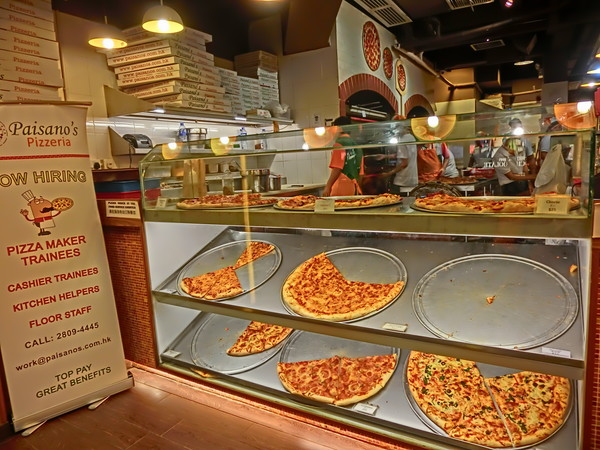
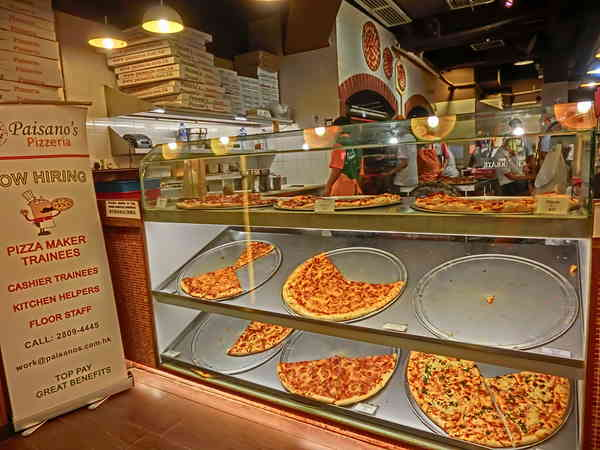
Add files via upload

diff --git a/project-mobile.html b/project-mobile.html
@@ -11,6 +11,7 @@
     <!-- <link href="//fonts.googleapis.com/css?family=Open+Sans:400,700" rel="stylesheet"> -->
 
     <link href="css/style.css" rel="stylesheet">
+    <link href="css/style.css" rel="stylesheet" media="all">
     <link href="css/print.css" rel="stylesheet" media="print">
   </head>
 
@@ -41,7 +42,7 @@
       <p>&copy; Web Performance 2014 <span id="crp-stats"></span></p>
     </footer>
 
-    <script>
+    <script async>
       (function(w,g){w['GoogleAnalyticsObject']=g;
       w[g]=w[g]||function(){(w[g].q=w[g].q||[]).push(arguments)};w[g].l=1*new Date();})(window,'ga');
 
@@ -49,8 +50,8 @@
       ga('create', 'UA-XXXX-Y');
       ga('send', 'pageview');
     </script>
-    <script src="http://www.google-analytics.com/analytics.js"></script>
-    <script async src="js/perfmatters.js"></script>
+    <script src="http://www.google-analytics.com/analytics.js" defer></script>
+    <script src="js/perfmatters.js" async></script>
 
   </body>
 </html>

diff --git a/project-webperf.html b/project-webperf.html
@@ -11,6 +11,7 @@
     <!-- <link href="//fonts.googleapis.com/css?family=Open+Sans:400,700" rel="stylesheet"> -->
 
     <link href="css/style.css" rel="stylesheet">
+    <link href="css/style.css" rel="stylesheet" media="all">
     <link href="css/print.css" rel="stylesheet" media="print">
   </head>
 
@@ -43,7 +44,7 @@
       <p>&copy; Web Performance 2014 <span id="crp-stats"></span></p>
     </footer>
 
-    <script>
+    <script async>
       (function(w,g){w['GoogleAnalyticsObject']=g;
       w[g]=w[g]||function(){(w[g].q=w[g].q||[]).push(arguments)};w[g].l=1*new Date();})(window,'ga');
 
@@ -51,8 +52,8 @@
       ga('create', 'UA-XXXX-Y');
       ga('send', 'pageview');
     </script>
-    <script src="http://www.google-analytics.com/analytics.js"></script>
-    <script async src="js/perfmatters.js"></script>
+    <script src="http://www.google-analytics.com/analytics.js" defer></script>
+    <script src="js/perfmatters.js" async></script>
 
   </body>
 </html>

diff --git a/project-2048.html b/project-2048.html
@@ -11,6 +11,7 @@
     <!-- <link href="//fonts.googleapis.com/css?family=Open+Sans:400,700" rel="stylesheet"> -->
 
     <link href="css/style.css" rel="stylesheet">
+    <link href="css/style.css" rel="stylesheet" media="all">
     <link href="css/print.css" rel="stylesheet" media="print">
   </head>
 
@@ -40,7 +41,7 @@
     <footer>
       <p>&copy; Web Performance 2014 <span id="crp-stats"></span></p>
     </footer>
-    <script>
+    <script async>
       (function(w,g){w['GoogleAnalyticsObject']=g;
       w[g]=w[g]||function(){(w[g].q=w[g].q||[]).push(arguments)};w[g].l=1*new Date();})(window,'ga');
 
@@ -48,7 +49,7 @@
       ga('create', 'UA-XXXX-Y');
       ga('send', 'pageview');
     </script>
-    <script src="//www.google-analytics.com/analytics.js"></script>
-    <script src="js/perfmatters.js"></script>
+    <script src="//www.google-analytics.com/analytics.js" defer></script>
+    <script src="js/perfmatters.js" async></script>
   </body>
 </html>

diff --git a/index.html b/index.html
@@ -11,6 +11,7 @@
     <link href="//fonts.googleapis.com/css?family=Open+Sans:400,700" rel="stylesheet">
 
     <link href="css/style.css" rel="stylesheet">
+    <link href="css/style.css" rel="stylesheet" media="all">
     <link href="css/print.css" rel="stylesheet" media="print">
   </head>
 
@@ -61,14 +62,14 @@
       </footer>
     </div>
 
-    <script>
+    <script async>
       (function(w,g){w['GoogleAnalyticsObject']=g;
       w[g]=w[g]||function(){(w[g].q=w[g].q||[]).push(arguments)};w[g].l=1*new Date();})(window,'ga');
 
       ga('create', 'UA-XXXX-Y');// Optional TODO: replace with your Google Analytics profile ID.
       ga('send', 'pageview');
     </script>
-    <script src="http://www.google-analytics.com/analytics.js"></script>
-    <script async src="js/perfmatters.js"></script>
+    <script src="http://www.google-analytics.com/analytics.js" defer></script>
+    <script src="js/perfmatters.js" async></script>
   </body>
 </html>

diff --git a/views/pizza.html b/views/pizza.html
@@ -2,6 +2,7 @@
 <html>
 <head>
   <link rel="stylesheet" href="css/style.css">
+  <link href="css/style.css" rel="stylesheet" media="all">
   <link rel="stylesheet" href="css/bootstrap-grid.css">
 </head>
 
@@ -137,7 +138,7 @@
     </div>
     <div id="footer" class="col-md-12">Thanks for visiting! &copy; 2014 Udacity</div>
   </div>
-  <script type="text/javascript" src="js/main.js"></script>
+  <script type="text/javascript" src="js/main.js" defer></script>
 </body>
 
 </html>

diff --git a/Gruntfile.js b/Gruntfile.js
@@ -16,7 +16,7 @@ module.exports = function(grunt) {
           sizes: [{
             width: 600,
             suffix: '_medium',
-            quality: 90
+            quality: 30
           }]
         },
         files: [{
